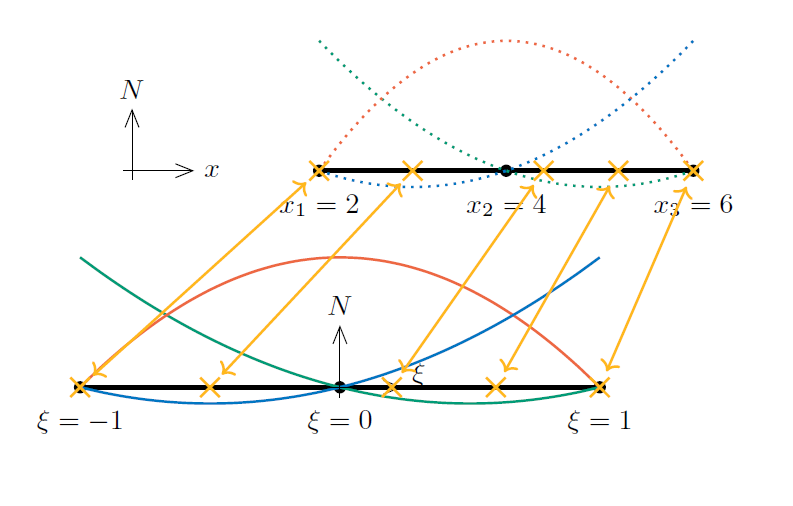
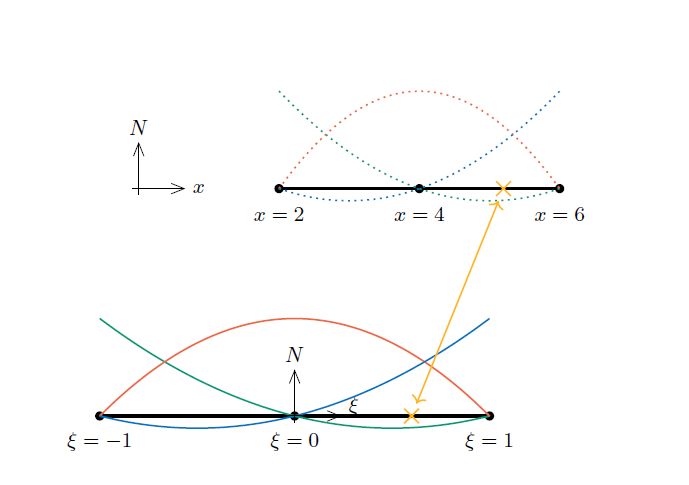
added content in isoparametric mapping

diff --git a/book/Chapter1/chapter1-7_Isoparametric_element_in_1D.md b/book/Chapter1/chapter1-7_Isoparametric_element_in_1D.md
@@ -3,7 +3,7 @@
 Considering a mesh using finite elements, each cell can have a unique shape and orientation. However, when performing numerical integration, it is preferable to define the selected integration scheme on a reference element and at the same reference cell, define the shape functions.
 Then a special technique is applied in order to bypass the need to prescribe several integration domains. This technique is commonly used in software using FEM and is called isoparametric mapping.
 
-## Why do we need isoparametric mapping?
+## 1.7.1 Why do we need isoparametric mapping?
 
 Let's consider a linear 3-node element with the nodes located in x=2, x=4 and x=6, respectivelly.
 
@@ -17,7 +17,7 @@ For an element with three nodes, there are three associated shape functions whic
 
 ```{figure} .././images/Chapter1/1_7_1.png
 ---
-height: 200px
+height: 300px
 name: 1_7_1
 ---
 Linear 3-node element.
@@ -48,7 +48,7 @@ The next step is to link this reference element with an actual element in physic
 
 At this point it is useful to recall that we need this mapping in order to define the element's stiffness matrix, which involves integration over the element domain and derivatives of the shape functions in the global coordinate system.
 
-## How to implement isoparametric mapping?
+## 1.7.2 How to implement isoparametric mapping?
 
 The first step is to construct the relation between x and $ξ$ with the shape functions.
 
@@ -60,29 +60,91 @@ We parameterise the mapping of coordinates similarly to the unknown fields {u}.
 
 ```{figure} .././images/Chapter1/1_7_4.png
 ---
-height: 200px
+height: 350px
 name: 1_7_4
 ---
 Mapping process between the two coordinate systems.
 ```
 
-The next step is to calculate the derivatives of the shape functions w.r.t. x- coordinate without the need to defeine the shape functions in terms of the x- coordinate.
+The next step is to calculate the derivatives of the shape functions w.r.t. x- coordinate. Here, the shape functions themselves do not need to be defined in terms of x, as the chain rule is used.
 
-% Add Equation 
-
-Following, we must integrate first on the x- coordinate and then on the coordinates of the reference element.
-
-% Add Equation 
-% Add Equation 
+$$ \frac{\partial N_i}{\partial x} = \frac {1}{J} \, \frac {\partial N_i}{\partial x} $$
 
 
-Stiffness matrix for the Poisson Equation
+where  J is the Jacobian:
+$$ J = \frac {\partial x} {\partial ξ}  = \sum_{i=1}^{n-node}  \frac {\partial N_i} {\partial ξ}  x_i $$
 
-% Add Equations 
+Following, we integrate first on the x- coordinate and then on the coordinates of the reference element.
+
+At the transformation of the integral, the same Jacobian appears, in absolute value.
+
+Integraton is performed as follows
+
+$$ \int_{x_1}^{x_3} f \, dx = \int_{-1}^{1} f |J| \, dξ$$
+
+Then numerical integration is performed using $ξ_i$ and $w_i$ as they were defined on the integration scheme of the reference element.
+
+$$ \int_{-1}^{1} f |J| \, dξ \approx \sum_{i=1}^{n- ip} f(ξ_i)  |J(ξ_i)| w_i $$
 
 
 
-## Recap
+##### Example 
+
+```{figure} .././images/Chapter1/1_7_5.png
+---
+height: 300px
+name: 1_7_5
+---
+Mapping process between the two coordinate systems.
+```
+
+
+| | | 
+| --- | --- |
+|$  N_1= \frac{1 }{2} ξ^2 - \frac{1 }{2} ξ  $| $x_1=2$|
+|$  N_2= 1 - ξ^2$ | $x_2=4$|
+|$  N_3=\frac{1 }{2} ξ^2 + \frac{1 }{2} ξ $ | $x_3=6$|
+
+- Mapping 
+  
+$$ x= N_1 x_1 + N_2 x_2 +N_3 x_3 = 4+2ξ $$
+
+- Derivatives
+  
+$$  J= \frac{\partial N_1}{\partial ξ}   x_1 +  \frac{\partial N_2}{\partial ξ}   x_2    + \frac{\partial N_3}{\partial ξ}   x_3  = 2    $$
+
+
+$$  \frac{\partial N_1}{\partial x} = \frac{1}{2} \frac{\partial N_1}{\partial ξ} $$
+
+## 1.7.3 Stiffness matrix of a 3-node element
+
+$$ \mathbf{K}^e = \int_{Ω^e} \mathbf{B}^T ν \mathbf{B} dΩ   $$
+
+$$ \mathbf{B} = \left[  \frac {\partial N_1}{\partial x}, \frac {\partial N_2}{\partial x}, \frac {\partial N_3}{\partial x} \right] $$ 
+
+Every entry can be integrated separately 
+
+$$ \mathbf{K_{ij} ^e} = \int_{x_1}^{x_3} \frac{\partial N_i}{\partial x} ν  \frac{\partial N_j}{\partial x} dx $$
+
+with isoparametric mapping 
+
+$$ \frac{\partial N_i}{\partial x} = \frac {1}{J} \frac{\partial N_i}{\partial ξ} $$
+
+$$ \int_{x_1}^{x_3} f \, dx = \int_{-1}^{1} f |J| \, dξ$$
+
+Substitution gives 
+
+
+$$ \mathbf{K_{ij} ^e} = \int_{-1}^{1} \frac {1}{J} \frac{\partial N_i}{\partial ξ} ν \frac {1}{J} \frac{\partial N_j}{\partial ξ} |J| dξ =  \int_{-1}^{1} \frac {1}{|J|} \frac{\partial N_i}{\partial ξ} ν  \frac{\partial N_j}{\partial ξ} dξ $$
+
+
+Note that at the left hand side of the equation J appears three times. For the 1D case, this is simplified as you can see, and J appears only once at the right-hand side of the equation. 
+
+J is a measure of the element length, so we see that the stiffness matrix is inversely proportional to the element's length.
+
+In the 2D case a similar operation exists, however in that case J is a matrix.
+
+### Recap
 
 Isoparametric elements are used in finite element software. In this case shape functions are formed in a simple element configuration (unit length side and width sides aligned with the coordinate system). 
 

diff --git a/book/Chapter1/chapter1-3_Weak_form_of_the_problem.md b/book/Chapter1/chapter1-3_Weak_form_of_the_problem.md
@@ -1,5 +1,7 @@
 # 1.3. Weak form of the Problem
 
+
+### 1.3.1 Derivation of the weak form
 In the FE method, before the problem is discretized, the governing equation is rewritten in the so-called **weak form**. One of the key aspects of the FE method is that we do not seek a nodally exact approximation, but an approximation that minimizes certain energy functional. This is why we aim at finding solutions in a *weak* or *variational* sense, which means that the FE solution might not be nodally exact, but it is the solution that minimizes the global energy of the system.
 
 In practice, the weak form of the problem is derived by multiplying the strong form by a weight function and then integrate by parts. In this manner, the order of derivatives appearing in the equations is reduced and the resulting equation facilitates a more convenient numerical solution.
@@ -22,6 +24,50 @@ name: 1_3_1
 ---
 Strong form to weak form 
 ```
+### 1.3.2 Boundary Conditions 
+
+To complete the problem, boundary conditions must be specified. A Dirichlet (essential) boundary condition prescribes the displacement at a point. For example
+
+$$ u=0 at x=0 $$
+
+prescribes the displaecement at left end of the barto be zero.
+
+
+A Neumann (natural) boundary condition prescribes the applied traction $ σ_n $.
+
+ $ σ_n  = h$, at $ x = L $
+
+ when n is the outward normal to the bar. The above boundary condition sets the applied traction at x=L equal to h.
+
+```{figure} .././images/Chapter1/1_3_2.png
+---
+height: 400px
+name: 1_3_2
+---
+example rod with distributed load
+```
+
+Considering that $ σ= Ε u_x $, applying a force at the end of a bar is equivalent to applying $u_x$.
+
+So finally, we get the following.
+
+
+$$ -E u_{xx} =f  ,  0<x<L $$
+$$ u=0 ,  at  x=0 $$
+$$ E u_{xn} =h , at  x=L $$  
+ 
+
+
+
+
+
+--------------------------------------------------------------------------------
+Back at the linear elastic rod problem of paragraph 1.2. At the fixed degrees of freedom, there is zero displacement  (i.e. homogeneous Dirichlet conditions). In case that non-zero Dirichlet conditions, additional steps need to be taken, as the matrix **K** cannot be simplified and thus cannot be inverted.
+
+
+
+
+
 
 
 - Link to virtual displacement

diff --git a/book/Chapter1/chapter1-1_Introduction_and_notation.md b/book/Chapter1/chapter1-1_Introduction_and_notation.md
@@ -62,7 +62,7 @@ For smooth enough functions, $u(x)$, as we increase the number of evaluation poi
 In this book you will learn how to find approximate solutions like $\tilde{u}_N(x)$ by using the FE method. 
 ```
 
-### 1.1.2 Notation
+## 1.1.2 Notation
 
 In these notes we will use the following notation, see Figure {numref}`1_1_2`: 
 * $u_i:=u(x_i)$, the function evaluated at location $x_i$. 
